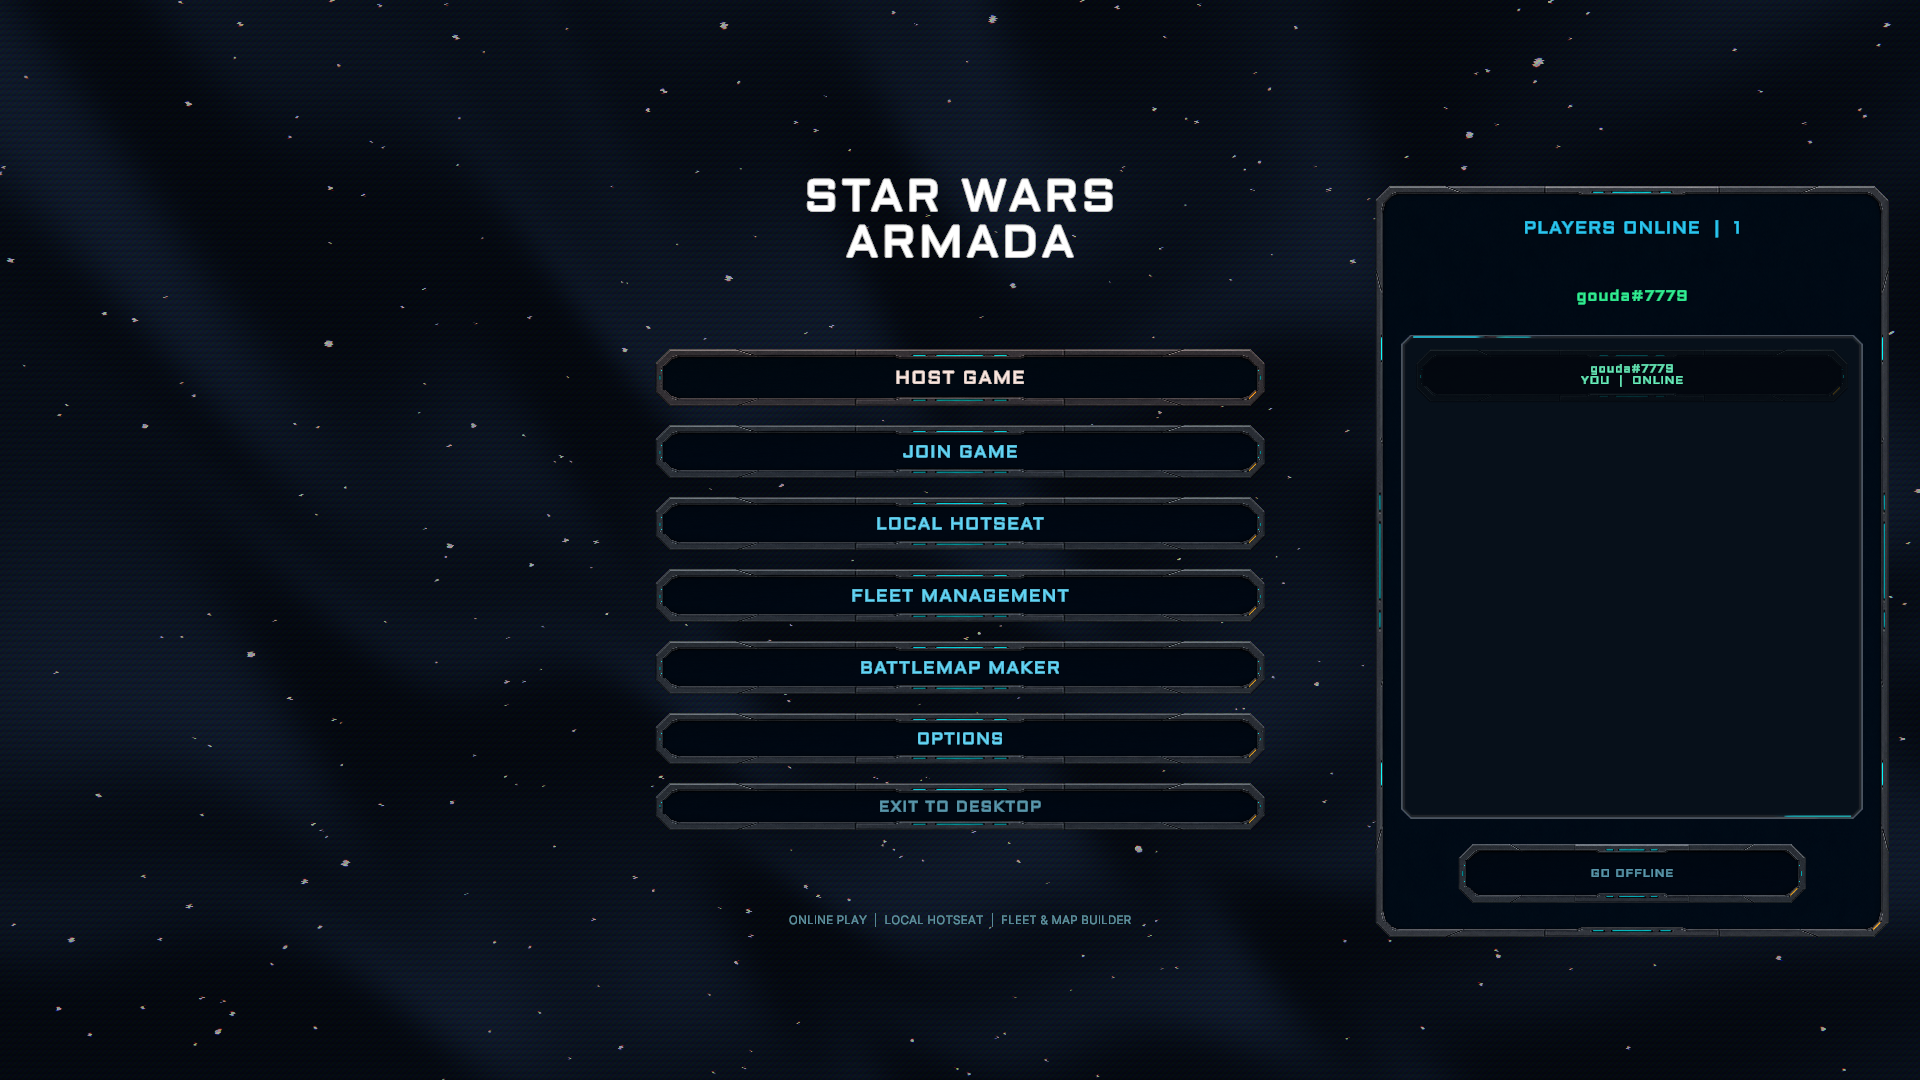
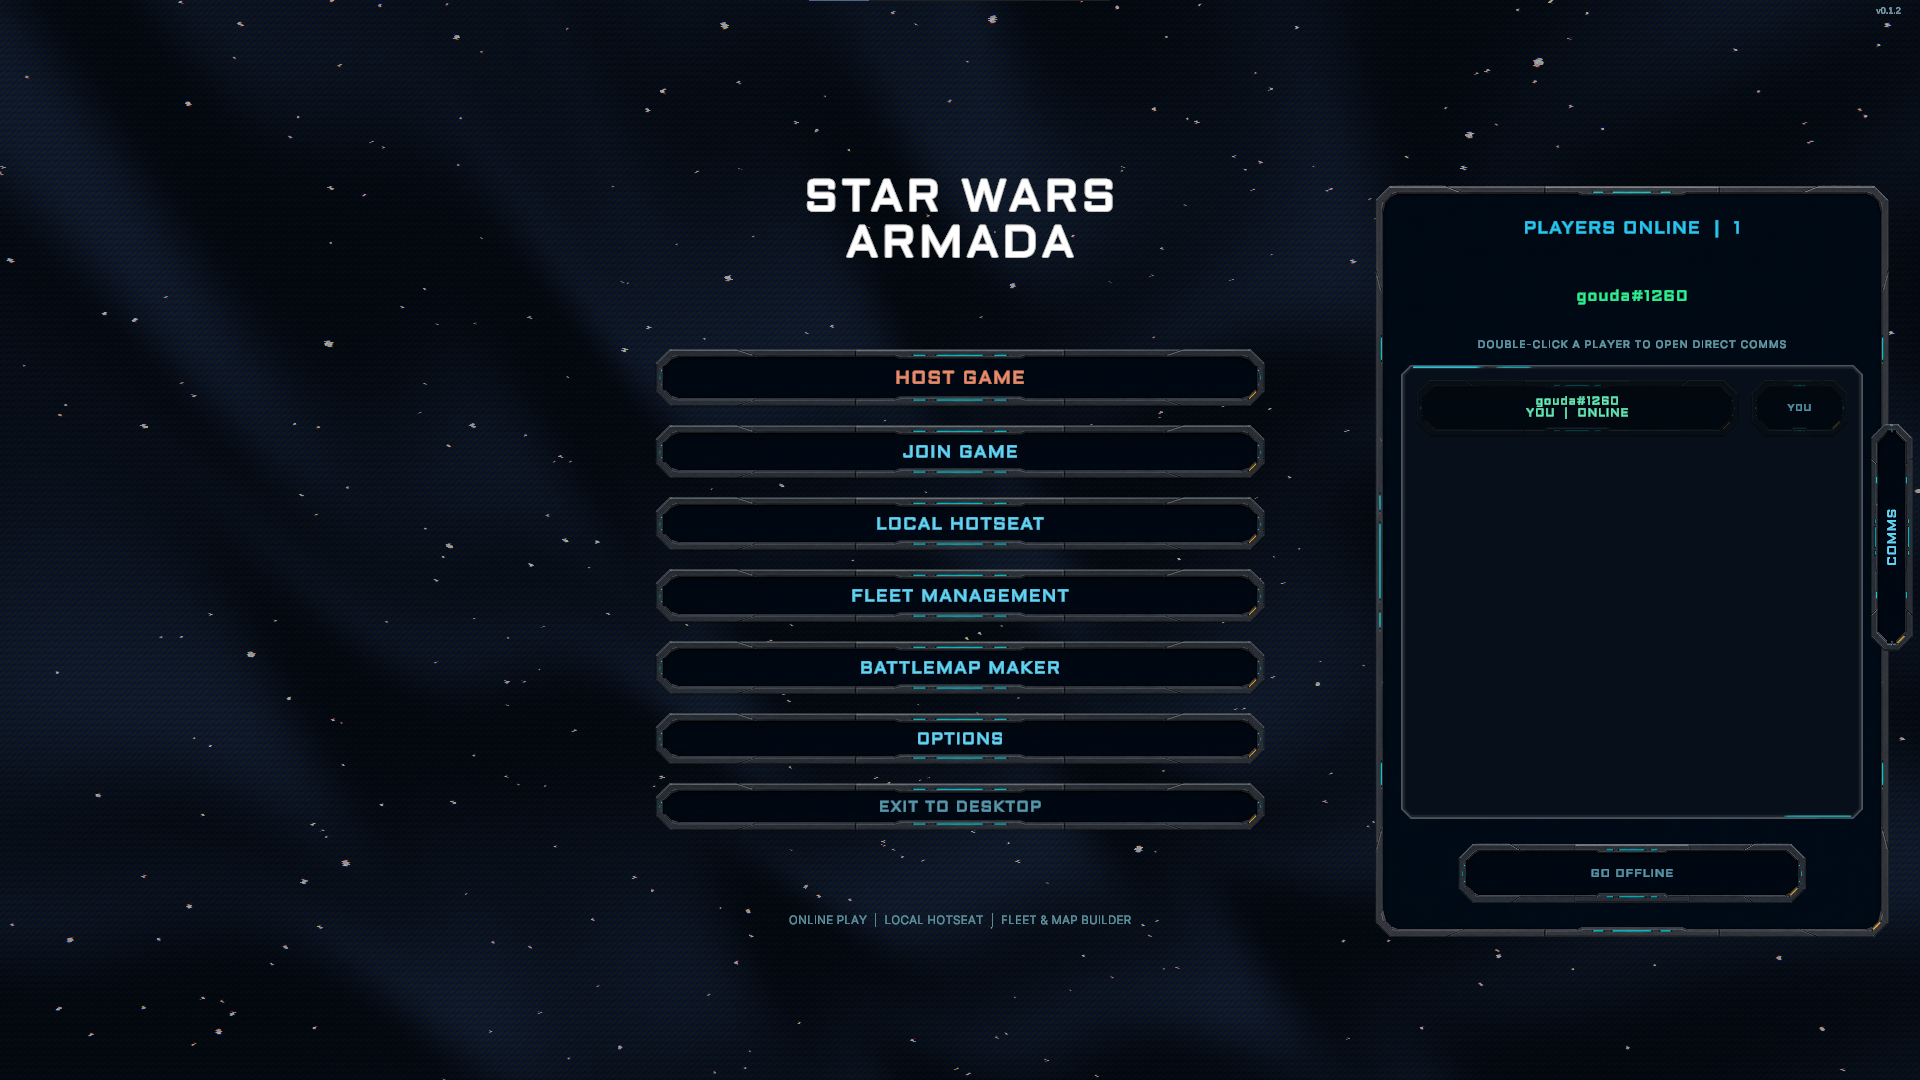
Release SWArmada 0.1.2

Changed region(s): [[0.7188, 0.3056, 0.9688, 0.3972], [0.9688, 0.3972, 1.0, 0.6111], [0.4688, 0.3361, 0.5312, 0.3667]]

diff --git a/RELEASE_NOTES_0.1.2.md b/RELEASE_NOTES_0.1.2.md
@@ -1,0 +1,155 @@
+# SWArmada 0.1.2
+
+Version 0.1.2 is the objective-gameplay release. It adds three complete custom
+scenarios, expands fleet and map setup, introduces fleet-text importing and
+persistent direct comms, and includes a broad rules, multiplayer, presentation,
+and usability pass.
+
+Republic and Separatist factions are intentionally deferred to version 0.1.3.
+
+## New objective game modes
+
+### Escort the VIP
+
+- Playable long-approach objective with host-selectable Escort and Interceptor
+  roles in online lobbies and the same P1/P2 choice in local hotseat.
+- The Escort receives a faction-specific zero-point VIP Transport with its own
+  shared combat profile, command behavior, deployment position, and objective
+  HUD.
+- The Escort wins by surviving to extract the VIP at the end of a round or by
+  destroying every Interceptor capital ship. The Interceptor wins by destroying
+  the VIP or preventing extraction through Round 10.
+- VIP extraction requires the transport's full base inside the Extraction Zone.
+
+### Seize the Station
+
+- Playable center-station objective with explicit capture-or-continue choices,
+  speed-0 capture, contesting, departure handling, and a full-round scoring
+  delay.
+- Uses the converted Metal station model and its original material groups as a
+  static center objective.
+
+### Intel Retrieval
+
+- Three fixed centerline Intel tokens, Distance 1 hover rings, and a baked
+  crashed-Gozanti/debris environment.
+- Ships that enter an Intel Zone choose whether to stop and begin downloading
+  or continue their plotted maneuver. Grazes stop at the first legal 50% pose;
+  pass-through maneuvers stop when fully contained.
+- Downloads require speed 0, continued zone overlap, and one full uncontested
+  round. A ship may leave and later restart a download normally.
+- Only light and medium ships may retrieve Intel. Heavy ships can contest but
+  receive a spatial eligibility warning.
+- Retrieved tokens shrink and ease onto their carrier, travel with it, and
+  detach at the destruction point if the carrier is lost.
+- Delivery requires the carrier's full base inside its own starting area and
+  resolves at the end of the current round. The first player to deliver two
+  tokens wins.
+
+## Scenario and map setup
+
+- Custom maps now store a scenario assignment: Default, Escort the VIP, Seize
+  the Station, or Intel Retrieval.
+- Fleet Sandbox, local hotseat, and online setup offer maps appropriate to the
+  selected scenario.
+- Setup screens use a three-column fleet/scenario/fleet layout with objective
+  cards shown at their native aspect ratio and a centered hover zoom.
+- Escort the VIP and Intel Retrieval always use long-approach deployment.
+- Objective matches keep both starting-area outlines visible throughout play.
+
+## Fleet management and rules
+
+- Added an `IMPORT FLEET` workflow for Ryan Kingston and Star Forge text lists,
+  including a Save As name, labeled ship sections, `=` upgrade/squadron lines,
+  grouped squadron quantities, shorthand ship names, and parenthetical ace
+  chassis.
+- Import totals are recalculated from the in-game catalog. Unsupported or
+  illegal content is skipped with a readable reason instead of corrupting the
+  remaining list.
+- Fleet Builder now distinguishes `OFFICIAL STANDARD` and `CUSTOM` rules.
+  Official mode enforces 400 fleet points and the 134-point squadron limit;
+  Custom mode retains editable limits without tournament composition caps.
+- Local and online setup include a synchronized Official/Custom Fleet Rules
+  switch. The online host controls it, and changing rules clears readiness.
+- Fleet cards show capital-ship and squadron point totals, and ship roster
+  entries expose a dedicated Upgrades button.
+- Local PREVIOUS/NEXT fleet controls now cycle the complete saved archive for
+  both players without forcing a full setup-screen redraw.
+
+## Online play, player directory, and comms
+
+- Online presence uses heartbeats and expiry so closed games no longer linger
+  as ghost players.
+- Match invitations now create and confirm one joinable Relay lobby, tolerate
+  modest clock skew, reconcile missed events, and queue arrivals during another
+  online operation.
+- Added persistent direct messages from the worldwide player list. Double-click
+  a player to open a conversation from any front-end screen or battle.
+- Direct comms collapse to a single right-edge vertical tab with per-contact
+  drafts, session history, and unread counts.
+- Chat notification audio now plays only for a genuinely new remote message,
+  not local echoes or replayed presence snapshots.
+- Online handshakes reject missing or mismatched client versions before a match
+  can start.
+
+## Updating
+
+- The startup update notice can automatically download the correct Windows ZIP
+  or Linux tarball to the player's Downloads folder.
+- Downloads use a unique partial file, verify the published SHA-256 sidecar,
+  and promote only a valid archive. Failures remain readable and retryable
+  without closing the game.
+
+## Rules and combat improvements
+
+- Squadron speed now uses the exact numbered tabletop ruler bands: Speed N
+  reaches Distance N, including the ruler's non-linear Distance 2-5 marks.
+- Ship overlap follows the tabletop maneuver procedure: ships may pass through
+  one another, but an overlapping endpoint retries the same course one speed
+  lower until a legal endpoint is found without changing the speed dial.
+- Speed-0 ships may yaw in place without collision damage at half the ram yaw
+  allowance.
+- Huge-base firing arcs originate at the base center while all range bands
+  measure from the selected hull-zone edge and ignore out-of-arc defender
+  geometry.
+- Accuracy results can lock every defense-token type the defender possesses,
+  including exhausted or currently unusable tokens.
+- Skilled First Officer command discard/reveal flow, Seventh Fleet damage
+  choices, and same-player squadron re-selection no longer dead-end or add
+  unnecessary pass-through clicks.
+
+## Presentation, controls, and UI
+
+- Dossiers use real defense-token symbols, show ship weight class, and wrap or
+  autosize long ship names within the panel.
+- Selected multi-choice dice, defense, and critical options use a persistent
+  glowing-blue interior; critical choices also provide a Back button before
+  committing.
+- Objective panels, notifications, tooltips, and spatial callouts received
+  clipping, lifetime, page-scope, and interaction fixes.
+- Waiting-player UI is fully opaque and frontmost while still allowing public
+  ship condition and weapon inspection where appropriate.
+- Normal and Shift-WASD tactical-camera panning are 230% of their previous base
+  speed.
+- Activated-unit rings, battlefield contrast, UI audio behavior, firing-range
+  holograms, Intel carrier placement, and objective-card presentation were
+  refined for readability.
+
+## Download
+
+### Windows x64
+
+Download `SWArmada-0.1.2-Windows-x64.zip`, extract the complete archive, and
+run `SWArmada.exe`.
+
+SHA-256:
[1 lines of base64/hex data omitted]
+
+### Linux x86-64
+
+Download `SWArmada-0.1.2-Linux-x86_64.tar.gz`, extract the complete archive,
+and run `./SWArmada.x86_64`. If necessary, restore its executable permission
+with `chmod +x SWArmada.x86_64`.
+
+SHA-256:
[1 lines of base64/hex data omitted]

diff --git a/README.md b/README.md
@@ -1,6 +1,6 @@
 # SWArmada
 
-![Version](https://img.shields.io/badge/version-0.1.1-00d9ff)
+![Version](https://img.shields.io/badge/version-0.1.2-00d9ff)
 ![Platform](https://img.shields.io/badge/platform-Windows%20x64%20%7C%20Linux%20x86__64-6e7b8b)
 ![Status](https://img.shields.io/badge/status-early%20development-f08b32)
 
@@ -17,12 +17,6 @@ interface.
 [Credits](#credits-and-acknowledgements)
 
 ## Screenshots
-
-<!--
-Screenshots are intentionally ordered by filename: 1-9, then 91 and 92.
-To replace one later, upload a new PNG with the same filename under
-media/screenshots and GitHub will update this page automatically.
--->
 
 ### 1. Main menu
 
@@ -68,6 +62,22 @@ media/screenshots and GitHub will update this page automatically.
 
 ![Plotting a capital ship movement path](media/screenshots/92plot-movement.png)
 
+### 12. Intel Retrieval
+
+![A light ship choosing whether to begin downloading an Intel token](media/screenshots/10intel-retrieval.png)
+
+### 13. Seize the Station
+
+![An online Seize the Station objective battle](media/screenshots/11seize-the-station.png)
+
+### 14. Escort the VIP
+
+![A Gozanti VIP Command Transport en route to extraction](media/screenshots/12escort-the-vip.png)
+
+### 15. Online lobby
+
+![An Escort the VIP online lobby with fleets, roles, objective card, and chat](media/screenshots/13online-lobby.png)
+
 ## Features
 
 - A fully 3D tactical battlespace for capital ships and squadrons
@@ -75,38 +85,43 @@ media/screenshots and GitHub will update this page automatically.
   range bands
 - Attack dice, accuracy results, shields, hull damage, and defense tokens
 - Command dials, ship activation, squadron activation, and round-based play
-- Fleet creation and editing with ship, squadron, upgrade, and objective
-  libraries
+- Fleet creation and editing with ship, squadron, and upgrade libraries, plus
+  text-list importing from Ryan Kingston and Star Forge formats
 - Saved fleet archives and a fleet sandbox for testing compositions
-- Local hotseat play and experimental online multiplayer support
+- Local hotseat play and experimental online multiplayer support with Default,
+  Escort the VIP, Seize the Station, and Intel Retrieval scenarios
 - An opt-in worldwide player list with locally persistent `Username#NNNN`
-  handles and direct match invitations
+  handles, direct match invitations, and persistent direct comms
 - Custom battlefield and map-editing tools
 - Laser fire, combat effects, spatial sound, and event-driven UI audio
 - A global scanline/CRT presentation inspired by retro tactical displays
 
-## What's new in 0.1.1
+## What's new in 0.1.2
 
-- See opted-in players online worldwide from the main menu
-- Pick a username while receiving a stable, automatic `#NNNN` identifier
-- Invite an available player directly into a private Relay-backed match lobby
-- Keep the same anonymous identity and handle when updating the game
-- Receive an in-game notification linking to GitHub when a newer release is
-  available
+- Three playable objective modes: Escort the VIP, Seize the Station, and Intel
+  Retrieval
+- Scenario-aware custom maps, Fleet Sandbox, local setup, and online lobbies
+- Fleet-text importing with catalog-based validation and point recalculation
+- Official/Custom fleet rules across Fleet Builder and match setup
+- Persistent direct comms, stronger presence expiry, and more reliable invites
+- Automatic verified update downloads for Windows and Linux
+- Tabletop ruler-correct squadron movement, ship-overlap handling, speed-0 yaw,
+  huge-base range fixes, and extensive combat/UI corrections
 
-Manual host and join codes continue to work as before.
+See [the complete 0.1.2 release notes](RELEASE_NOTES_0.1.2.md) for the full
+breakdown.
 
 ## Download and install
 
-The current public build is **SWArmada 0.1.1** for **Windows x64** and
+The current public build is **SWArmada 0.1.2** for **Windows x64** and
 **Linux x86-64**.
 
-1. Open the [`v0.1.1` release](https://github.com/thetrufflegouda/SWArmada/releases/tag/v0.1.1).
+1. Open the [`v0.1.2` release](https://github.com/thetrufflegouda/SWArmada/releases/tag/v0.1.2).
 2. Download the archive for your platform.
 
 ### Windows x64
 
-1. Download `SWArmada-0.1.1-Windows-x64.zip`.
+1. Download `SWArmada-0.1.2-Windows-x64.zip`.
 2. Extract the entire ZIP to a writable folder.
 3. Run `SWArmada.exe`.
 
@@ -116,7 +131,7 @@ not code-signed.
 
 ### Linux x86-64
 
-1. Download `SWArmada-0.1.1-Linux-x86_64.tar.gz`.
+1. Download `SWArmada-0.1.2-Linux-x86_64.tar.gz`.
 2. Extract the entire archive.
 3. Run `./SWArmada.x86_64` from the extracted folder.
 
@@ -128,20 +143,20 @@ does not preserve it, run `chmod +x SWArmada.x86_64` first.
 SHA-256 checksums:
 
 ```text
-1235AE580266B03EFDAADC51A7F3DB4E67209DCD4FA5DA406F4ACD20BE771306  SWArmada-0.1.1-Windows-x64.zip
-CE63BA7203B117E72033D9555E6CCEB4B303F56F78560AB67D4A4DAC085AC5AC  SWArmada-0.1.1-Linux-x86_64.tar.gz
+605303C2D28A4C5A5A768D7E546BD503DD494B9FE9120AA6B6D3B472028DB782  SWArmada-0.1.2-Windows-x64.zip
+8014EB09A9246C709185BD494137BD1C1B625D0E67CC71F469F4F73A31F34E37  SWArmada-0.1.2-Linux-x86_64.tar.gz
 ```
 
 In PowerShell, compare it with:
 
 ```powershell
-Get-FileHash .\SWArmada-0.1.1-Windows-x64.zip -Algorithm SHA256
+Get-FileHash .\SWArmada-0.1.2-Windows-x64.zip -Algorithm SHA256
 ```
 
 On Linux, compare it with:
 
 ```bash
-sha256sum SWArmada-0.1.1-Linux-x86_64.tar.gz
+sha256sum SWArmada-0.1.2-Linux-x86_64.tar.gz
 ```
 
 ## How it plays
@@ -159,11 +174,12 @@ tracking, and online synchronization.
 
 ## Project status
 
-Version `0.1.1` adds worldwide player presence, direct invitations, and update
-notifications to the `0.1.0` public baseline. It is an early build, not a
-finished commercial release. Features, rules behavior, balance, presentation,
-saved data, and multiplayer compatibility may change as the game develops.
-Bugs and incomplete content should be expected.
+Version `0.1.2` adds objective modes, scenario-aware setup, importing, direct
+comms, verified update downloads, and a substantial tabletop-rules and UI pass
+to the public baseline. It is an early build, not a finished commercial
+release. Features, rules behavior, balance, presentation, saved data, and
+multiplayer compatibility may change as the game develops. Bugs and incomplete
+content should be expected.
 
 This repository is the public release home for SWArmada. It contains project
 information and release metadata; downloadable Windows and Linux builds are
